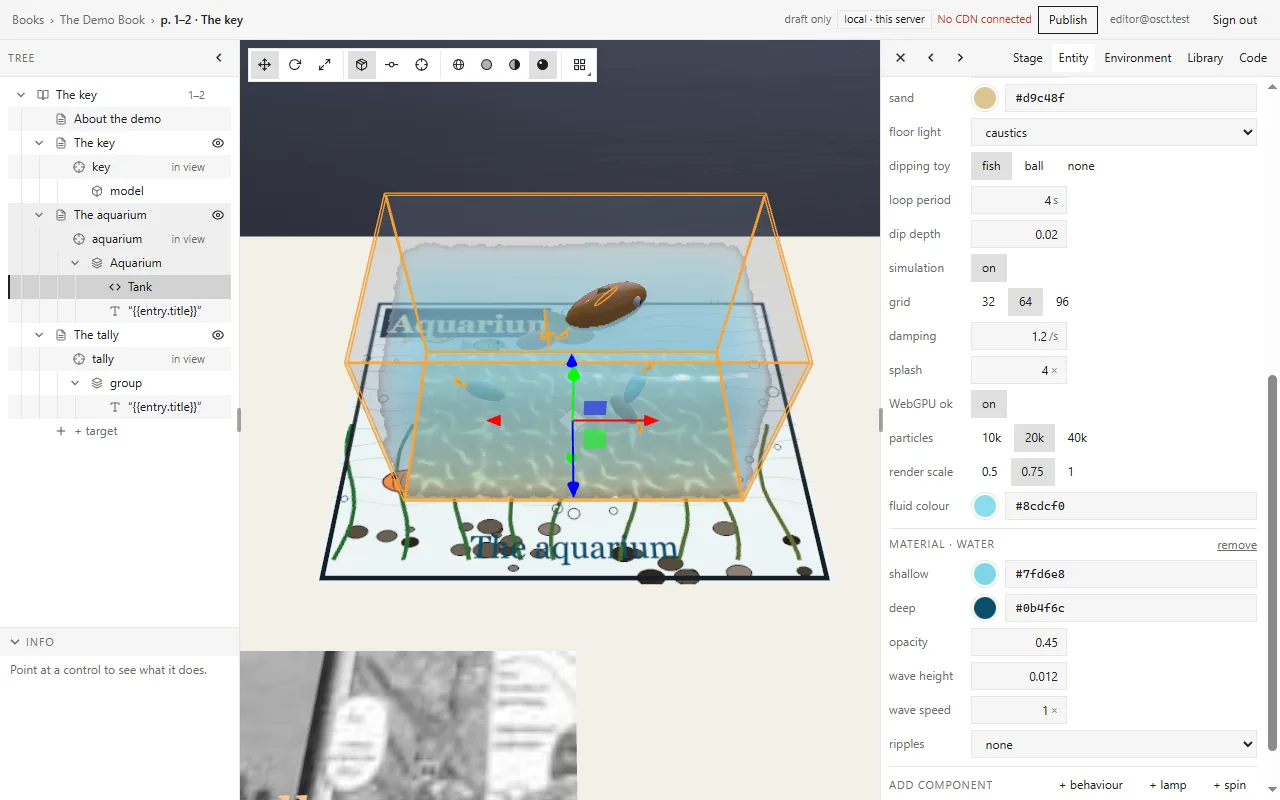
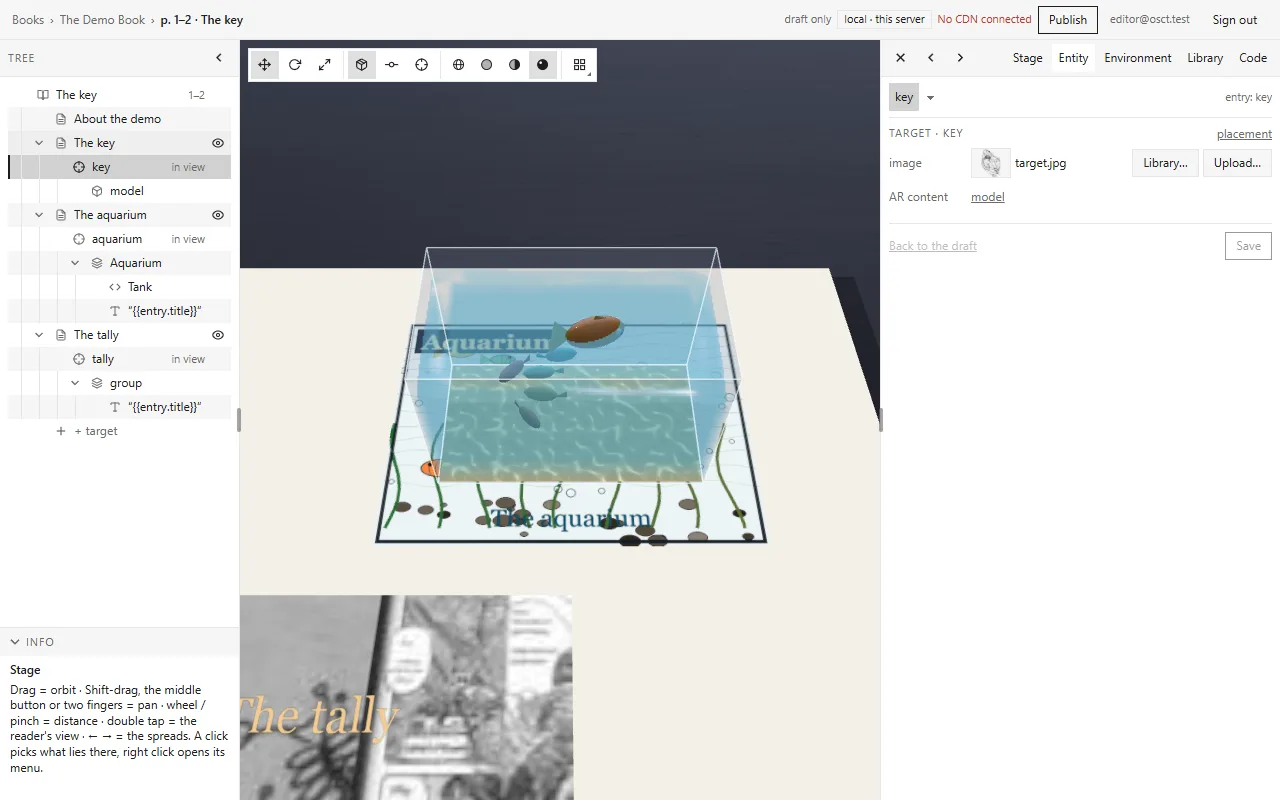
Unreleased: the tutorial's aquarium shot shows the reworked fluid
Refs #228

diff --git a/client/public/docs/tutorials/index.html b/client/public/docs/tutorials/index.html
@@ -625,8 +625,8 @@ npm run osct -- content status --env staging</code></pre>
   </figure>
   <p>Where the browser has WebGPU, the water is a real fluid instead: thousands of particles simulated and drawn on the GPU (Splash, by Masaya Matsuoka), seen through the tank's faces from the stage's camera, and the toy pushes them aside as it dips. The row <em>WebGPU</em> says what this browser has – <em>WebGPU ok</em> runs the fluid while it is on, <em>no WebGPU</em> keeps the rings above – and <em>particles</em>, <em>render scale</em> and <em>fluid colour</em> follow it.</p>
   <figure class="shot">
-    <img src="/docs/tutorials/tools/19-aquarium-fluid.webp" width="1280" height="800" loading="lazy" alt="The aquarium seen from above the right page, the Tank selected with its gizmo: the water is a smooth particle fluid filling the glass to its level, the fish seen through it and the light on the sand below; the toy fish lies in the water. The Entity panel, scrolled down, shows the tank's rows – sand, floor light caustics, dipping toy fish, loop period 4 s, dip depth 0.02, simulation on, grid 64, damping 1.2 /s, splash 4 – then WebGPU ok on, particles with 20k pressed, render scale with 0.75 pressed and fluid colour #8cdcf0, then material · water.">
-    <figcaption>The WebGPU fluid in the tank: the row says <em>WebGPU ok</em>, the particles and the render scale below it.</figcaption>
+    <img src="/docs/tutorials/tools/19-aquarium-fluid.webp" width="1280" height="800" loading="lazy" alt="The key spread seen from above the right page: the glass tank on the aquarium's printed target, filled to its level with clear, lightly tinted water that meets the glass on every side; the fish are seen through it and the light dances on the sand below; the orange toy fish lies in the water, half under the surface. The tree on the left, the Entity panel on the right shows the key's target.">
+    <figcaption>The WebGPU fluid in the tank, as the toy fish dips in. In the Entity panel the tank's row says <em>WebGPU ok</em>, the particles and the render scale below it.</figcaption>
   </figure>
   <p><b>make it code</b>, in the head of any node, turns the node into a node type of the book's own – Unreal's <em>Create Blueprint class from a component</em>. The editor writes a plugin into the Code tab whose <code>registerNodeType</code> reproduces the node: its type's builder as a readable starting point (here a model: a copy of its scene, its clips playing), its values as the spec's parameters. It saves the plugin, runs it and switches the node to the new type, where it was. From then on it is your code: change the build, <b>Run</b>, <b>Save</b>. <b>make code</b> beside the material row does the same for the node's look, as a <code>registerMaterial</code>. The draft changes only when you press <b>Save</b> in the Entity panel.</p>
   <figure class="shot">
